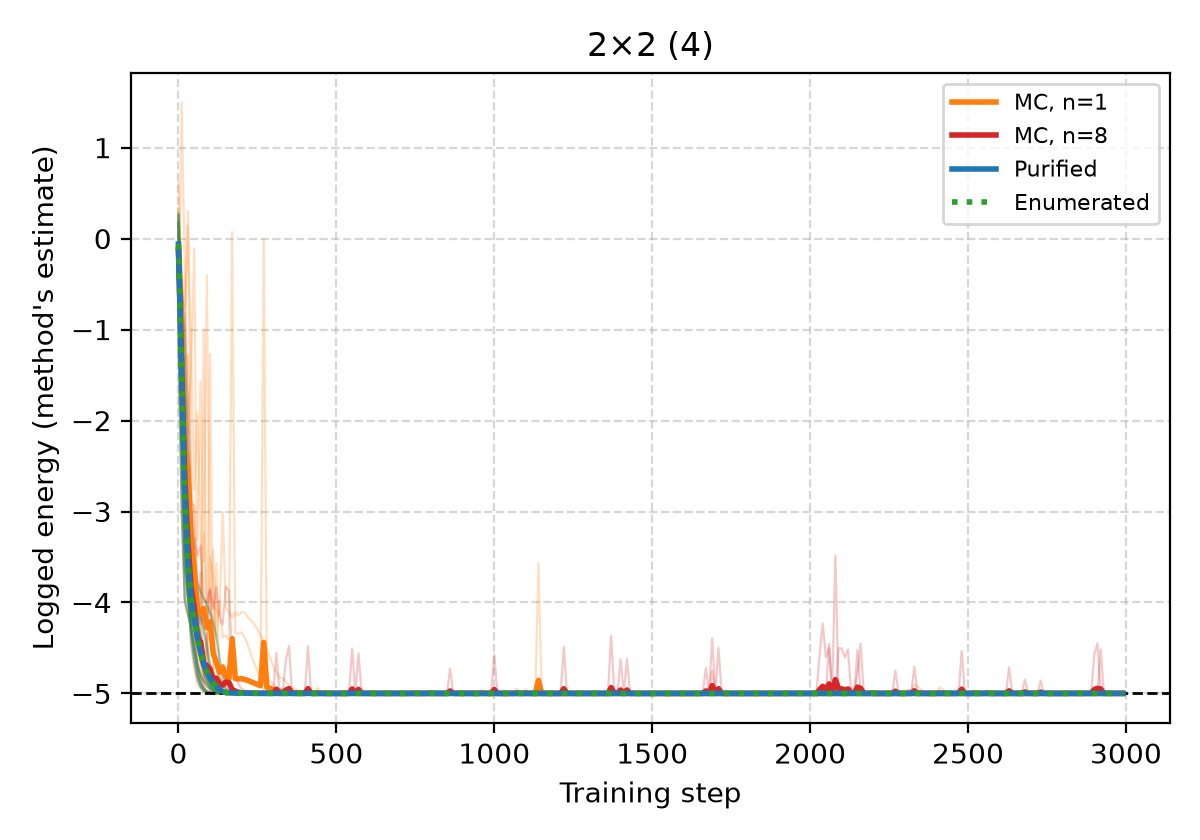
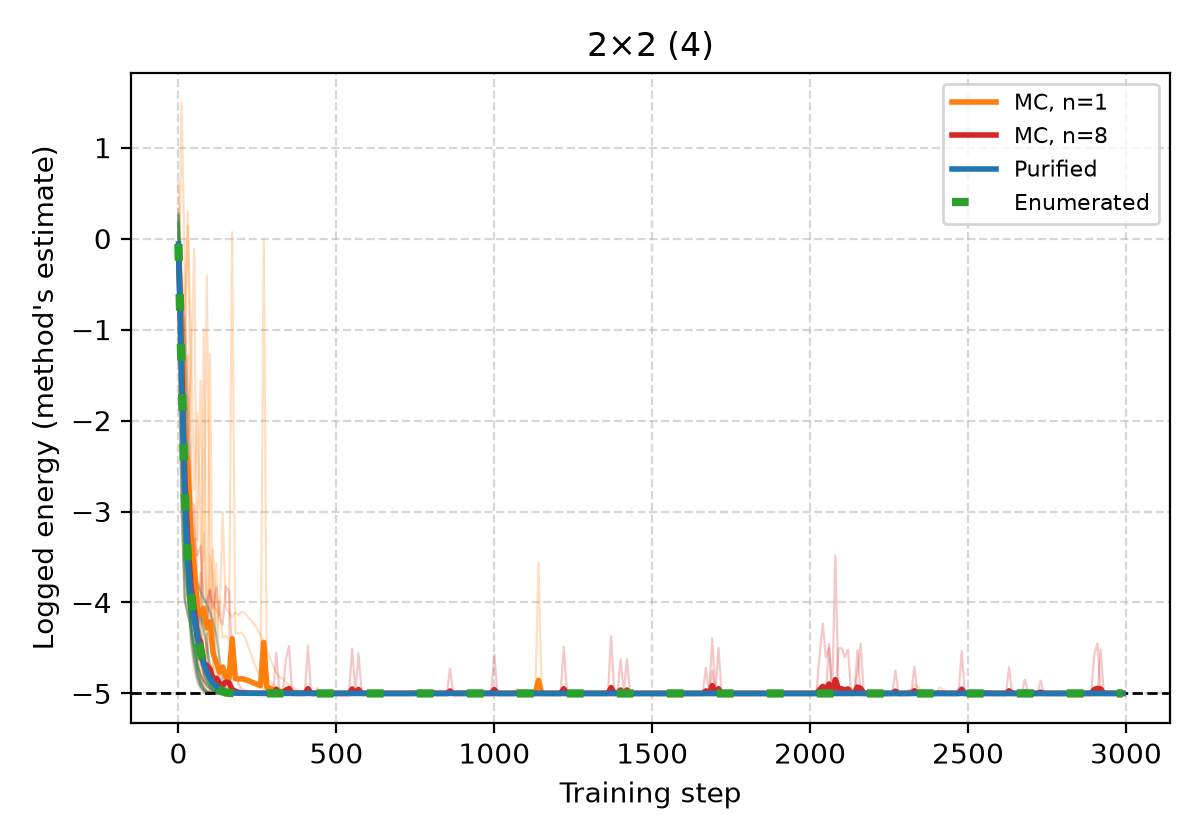
exp1_compare: thicker, sparser dashes for enumerated over purified

diff --git a/src/experiments/exp1_compare.py b/src/experiments/exp1_compare.py
@@ -239,8 +239,8 @@ def plot_per_size(rows, out_dir, plt):
             # enumerated is dotted and drawn on top so purified shows through.
             overlap = key.startswith("energy_gap") and m == "enumerated"
             ax.plot([r["n_qubits"] for r in ok], [r[key] * scale for r in ok], color=colour,
-                    marker="o", ms=3.5, lw=1.2, label=label,
-                    ls=":" if overlap else "-", zorder=4 if overlap else 2)
+                    marker="o", ms=3.5, lw=2.2 if overlap else 1.2, label=label,
+                    ls=(0, (3, 6)) if overlap else "-", zorder=4 if overlap else 2)
         if not drawn:
             plt.close(fig)
             continue
@@ -298,8 +298,9 @@ def _plot_training_curves(rows, out_dir, plt, col, ylabel, suffix):
             # parameters, so their curves coincide: enumerated is dotted and
             # drawn on top (higher zorder) of the solid purified line.
             enum = r["method"] == "enumerated"
-            ax.plot(steps, np.mean(curves, axis=0), color=colour, lw=2, label=label,
-                    ls=":" if enum else "-", zorder=4 if enum else 3)
+            # (3, 6): 3 pt dash, 6 pt gap, in units of line width
+            ax.plot(steps, np.mean(curves, axis=0), color=colour, lw=3 if enum else 2,
+                    label=label, ls=(0, (2, 4)) if enum else "-", zorder=4 if enum else 3)
         ax.axhline(exact_ground_energy(Lx, Ly), color="k", ls="--", lw=1)
         ax.set_xlabel("Training step")
         ax.set_ylabel(ylabel)
